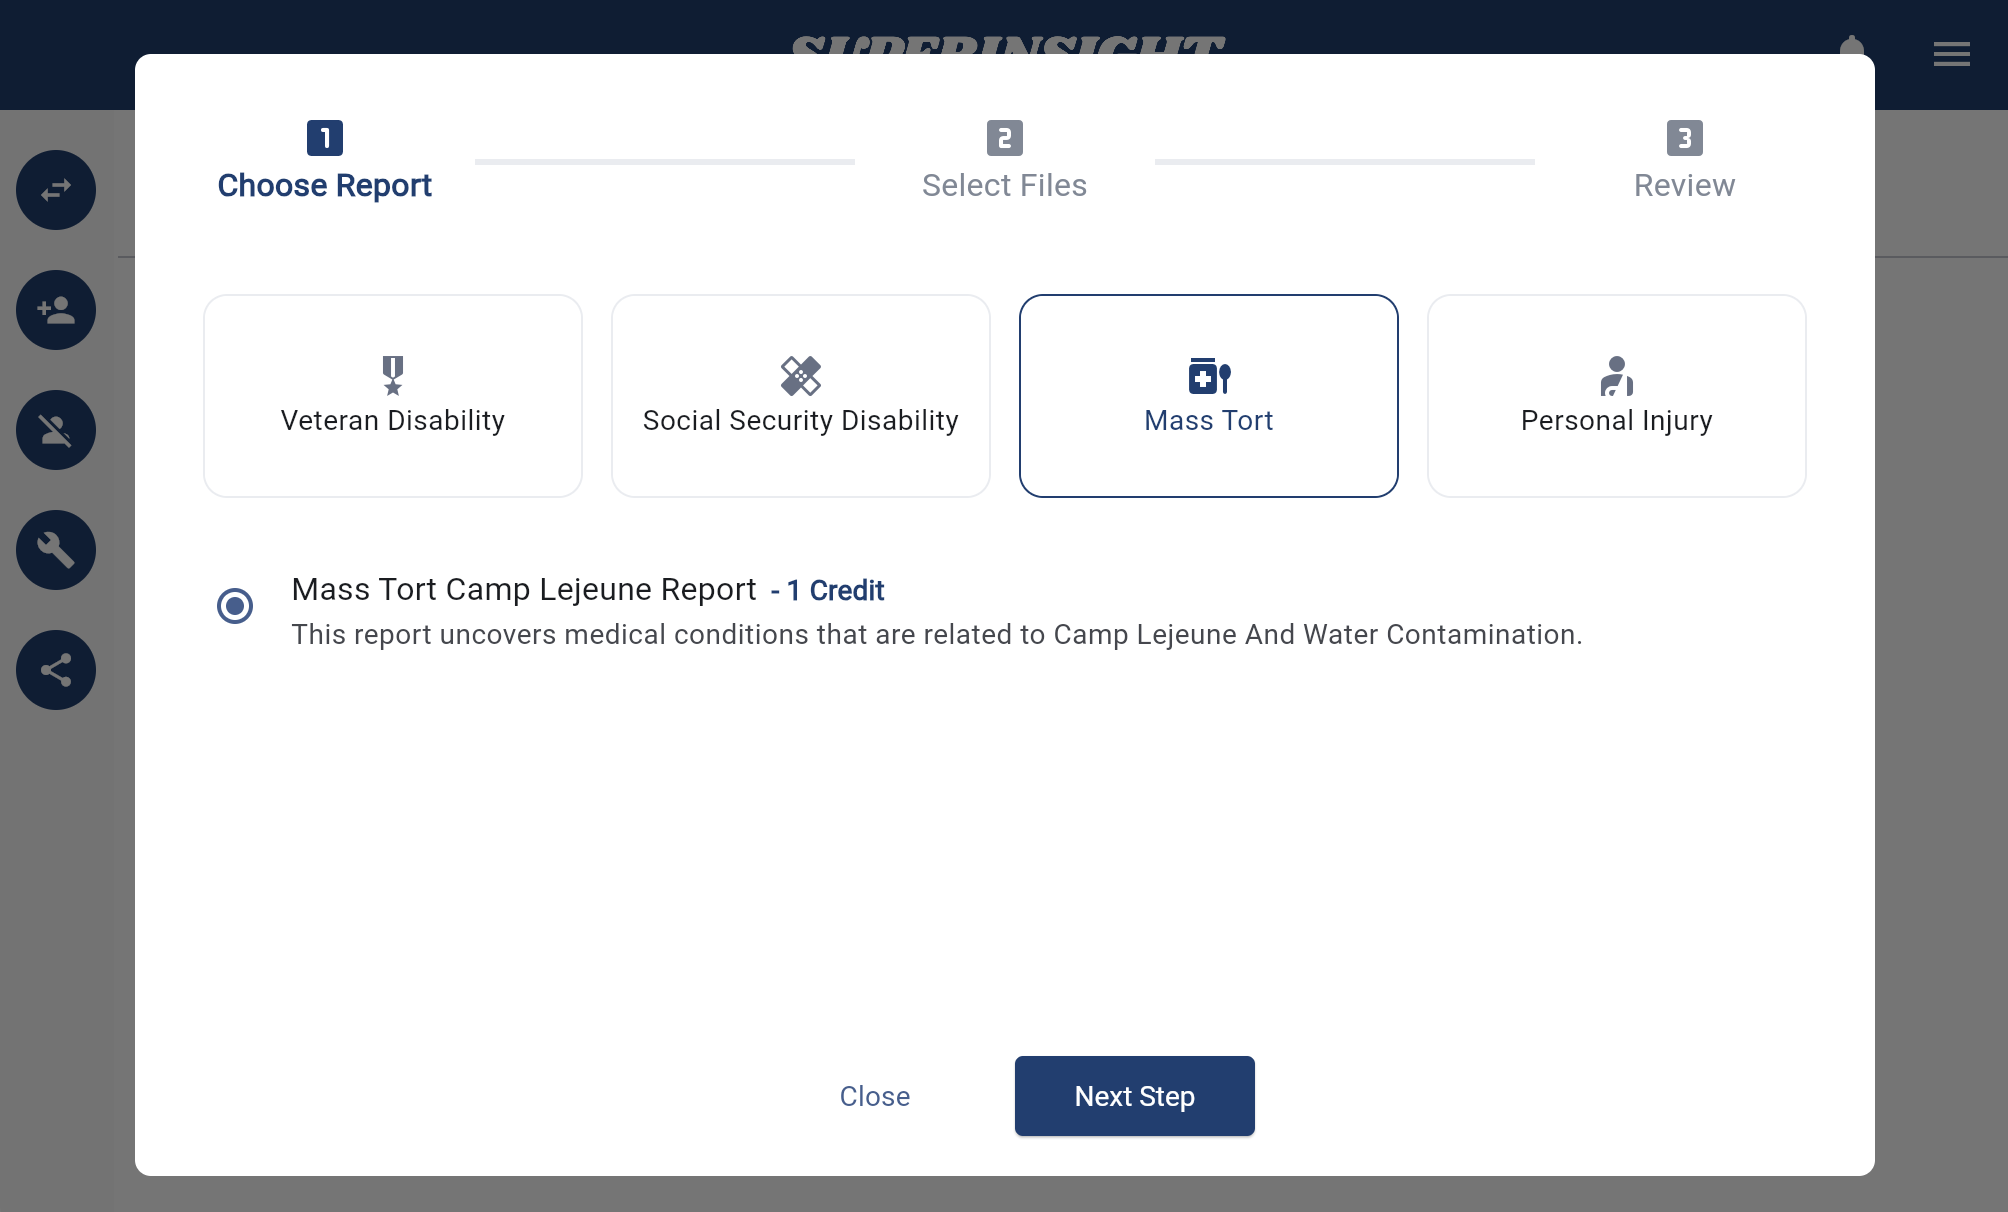
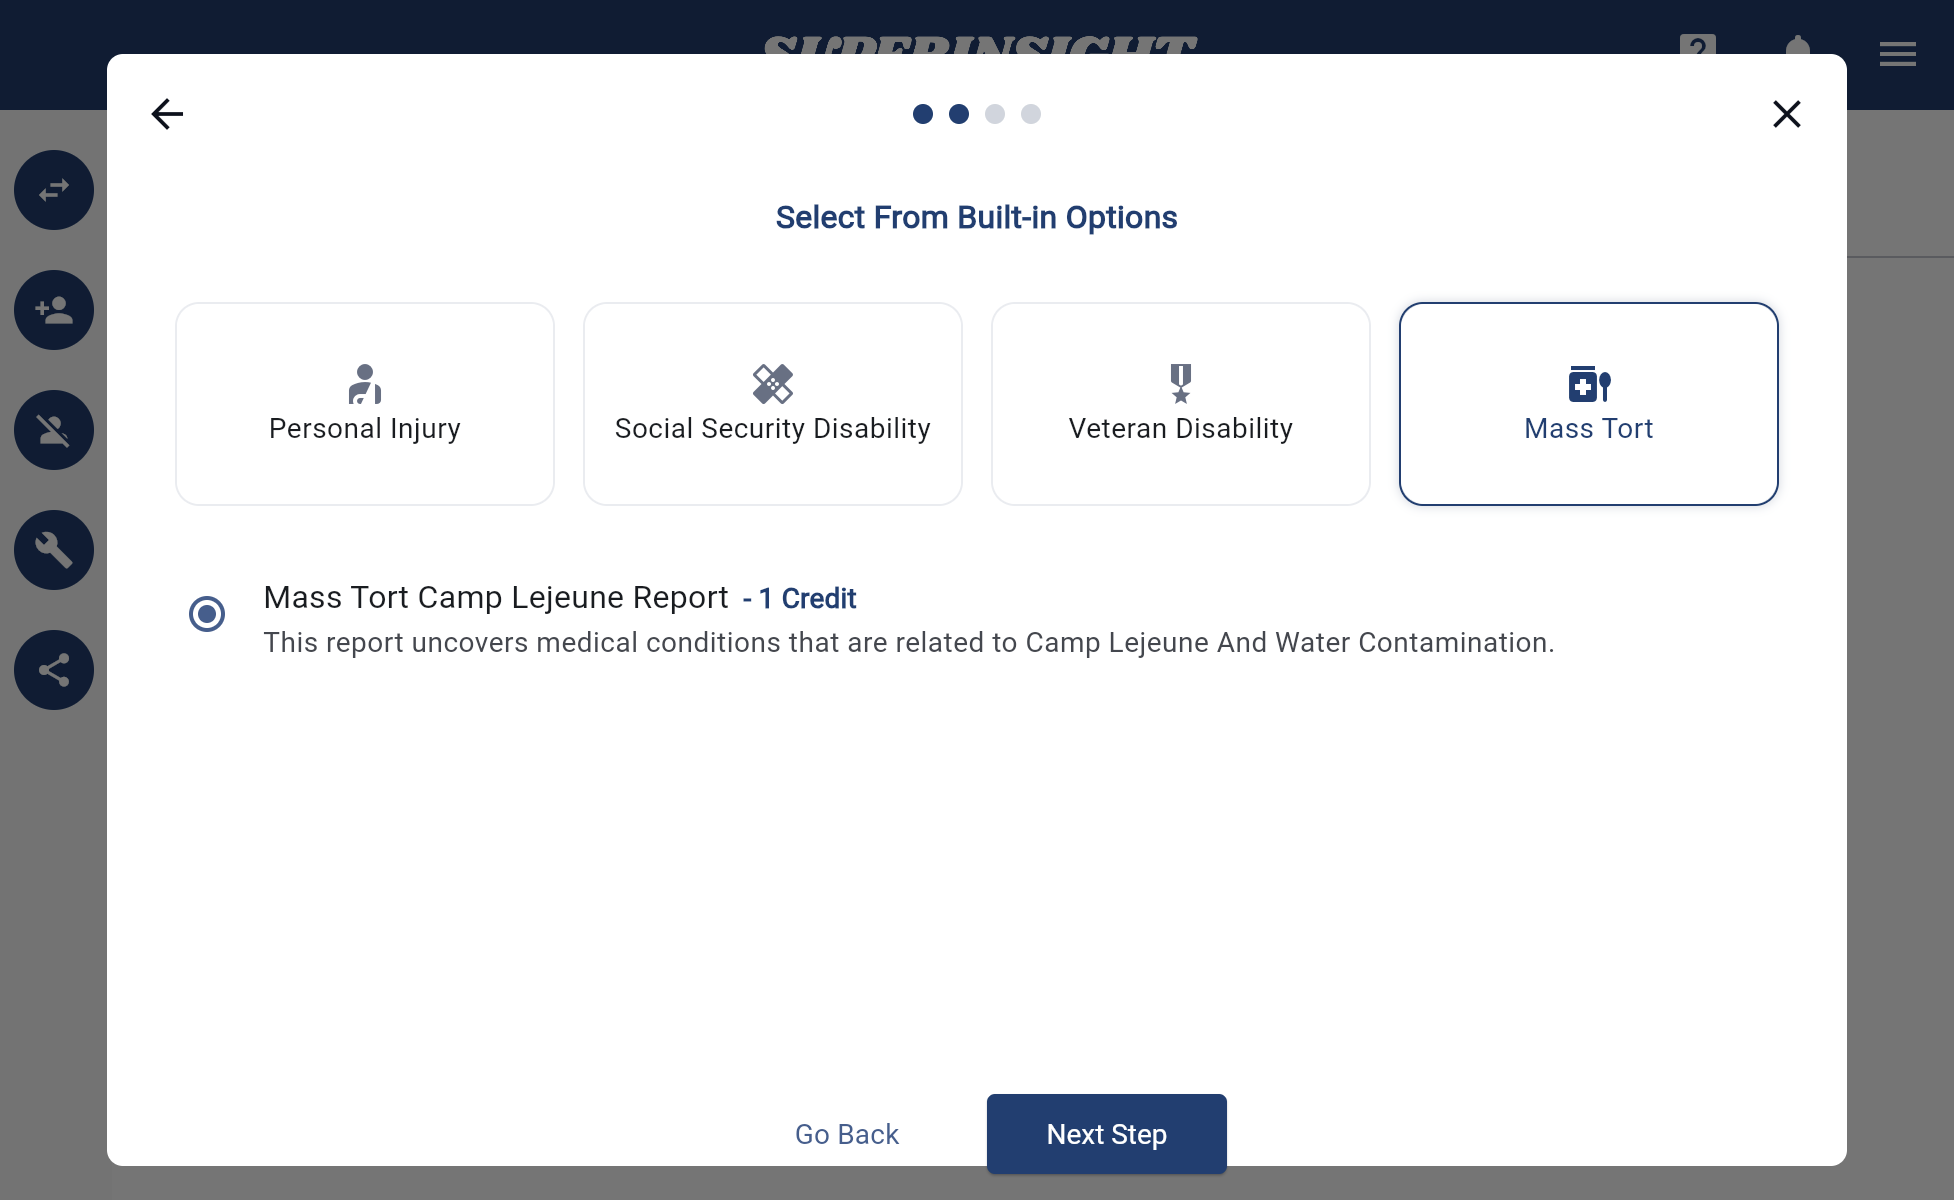
feature update feb 25

diff --git a/docs/guide/case-report.md b/docs/guide/case-report.md
@@ -4,16 +4,20 @@
 
 Besides real-time file analysis, Superinsight allows you to select multiple files and generate a complex report that helps you significantly reduce time you spend on reading tons of paper and get your claim way more efficiently.
 
-Simply click on the "Build Report" button on the left and select all the files you want to be included in reports Superinsight supported. Before you submit to generate, make sure your file list is correct!
+Simply click on the "Build Report" button on the left, choose the way you want to build, and select all the files you want to be included in reports that Superinsight supports. Before you submit to generate, make sure your file list is correct!
 
 ![Build a Report](../assets/images/tutorial/build-report.png)
 
-Select the report types that you want to build. Now we offer 4 types of report, including:
+Before you build the report, you can either choose the build-in options that Superinsight made for you or use your own prompts to generate the specific reports.
 
-* Veteran Disability
-* Social Security Disability
-* Mass Tort
+![Building Ways](../assets/images/tutorial/ways-to-build.png)
+
+Now we offer 4 types of report, including:
+
 * Personal Injury
+* Social Security Disability
+* Veteran Disability
+* Mass Tort (Build-in only)
 
 !!! TIP
     Feel free to [contact us](mailto:help@superinsight.ai) if you need any other reports we're not supporting yet. We'd love to discuss that!
@@ -22,25 +26,31 @@ Select the report types that you want to build. Now we offer 4 types of report, 
 
 Each report costs 1-5 credits, based on required resources. If you need extra credits, [contact us](mailto:help@superinsight.ai) to purchase **6 credits for $250** or **18 credits for $500**.
 
-=== "Veteran Disability"
-    CFile report covers all the information you need while helping veterans, including deep analysis of Rating Decisions, Service Treatment Records, Post Service Medical Records and more.
+If you choose **Build My Own Report**, each report type offers three templates that you can freely edit and customize with your own prompts based on your habits or scenarios.
 
-    ![Veteran Disability](../assets/images/tutorial/report-type-va.png)
+![Build My Own Report](../assets/images/tutorial/free-prompts.png)
+
+If you choose **Select From Build-in Options**, then you can select types of report by practice areas.
+
+=== "Personal Injury"
+    Reveal various medical procedures and provides corresponding ICD codes.
+    
+    ![Personal Injury](../assets/images/tutorial/report-type-pi.png)
 
 === "Social Security Disability"
     Summary key points of claimant information according to objective analysis provided by physicians. Such as severe impairments, imaging results, medication, medical chronology, etc.
 
     ![Social Security Disability](../assets/images/tutorial/report-type-ssd.png)
 
+=== "Veteran Disability"
+    CFile report covers all the information you need while helping veterans, including deep analysis of Rating Decisions, Service Treatment Records, Post Service Medical Records and more.
+
+    ![Veteran Disability](../assets/images/tutorial/report-type-va.png)
+
 === "Mass Tort"
     Uncover medical conditions that are related to Camp Lejeune & Water Contamination.
 
     ![Mass Tort](../assets/images/tutorial/report-type-mt.png)
-
-=== "Personal Injury"
-    Reveal various medical procedures and provides corresponding ICD codes.
-    
-    ![Personal Injury](../assets/images/tutorial/report-type-pi.png)
 
 
 Select files you want to include in the report. And of course, you can filter certain labels to find the files you need more efficiently.
@@ -51,13 +61,9 @@ Select files you want to include in the report. And of course, you can filter ce
 === "Filter Labels"
     ![Filter Labels](../assets/images/tutorial/report-filter-file.png)
 
-Confirm all your selections and submit. If you're building **Veteran Disability Report** please make sure you label all your files well.
+Confirm all your selections before you submit to build.
 
-=== "Confirm & Submit"
-    ![Confirm & Submit](../assets/images/tutorial/submit-file.png)
-
-=== "VA File Type Confirm"
-    ![File Type](../assets/images/tutorial/submit-file-va.png)
+![Confirm & Submit](../assets/images/tutorial/submit-file.png)
 
 After files are submitted, you will see the unclickable report in the "Reports" tab building behind the scenes. Once it is complete, it will turn black with the download icon, then you can download and check your reports anytime you want.
 

diff --git a/docs/guide/release-notes.md b/docs/guide/release-notes.md
@@ -6,6 +6,22 @@ Release notes provide the list of items on feature changes, known issues, fixes,
 
 ---------------------------------------
 
+#### February 20, 2025 Released
+
+* Live Help feature added.
+
+* Support building reports with custom prompts.
+
+* Veteran Disability Report enhancement.
+
+* Social Security Disability Report enhancement.
+
+* Personal Injury Report enhancement.
+
+* System optimized.
+
+---------------------------------------
+
 #### January 13, 2025 Released
 
 * VA Cfile report supports download in CSV format.

diff --git a/docs/guide/index.md b/docs/guide/index.md
@@ -14,3 +14,8 @@ Learn more about Superinsight with the following How To Guide.
 | [Setting Menu](menu.md)                      | Check your billing and find support |
 | [Share Case](case-share.md)                  | Share your cases to stakeholders    |
 | [Access Permission](permission.md)           | Set up your cases' access permission|
+
+
+If you are still confused after this guide, feel free to contact us on our **Live Help**.
+
+![Live Help](../assets/images/tutorial/live-help.png)
